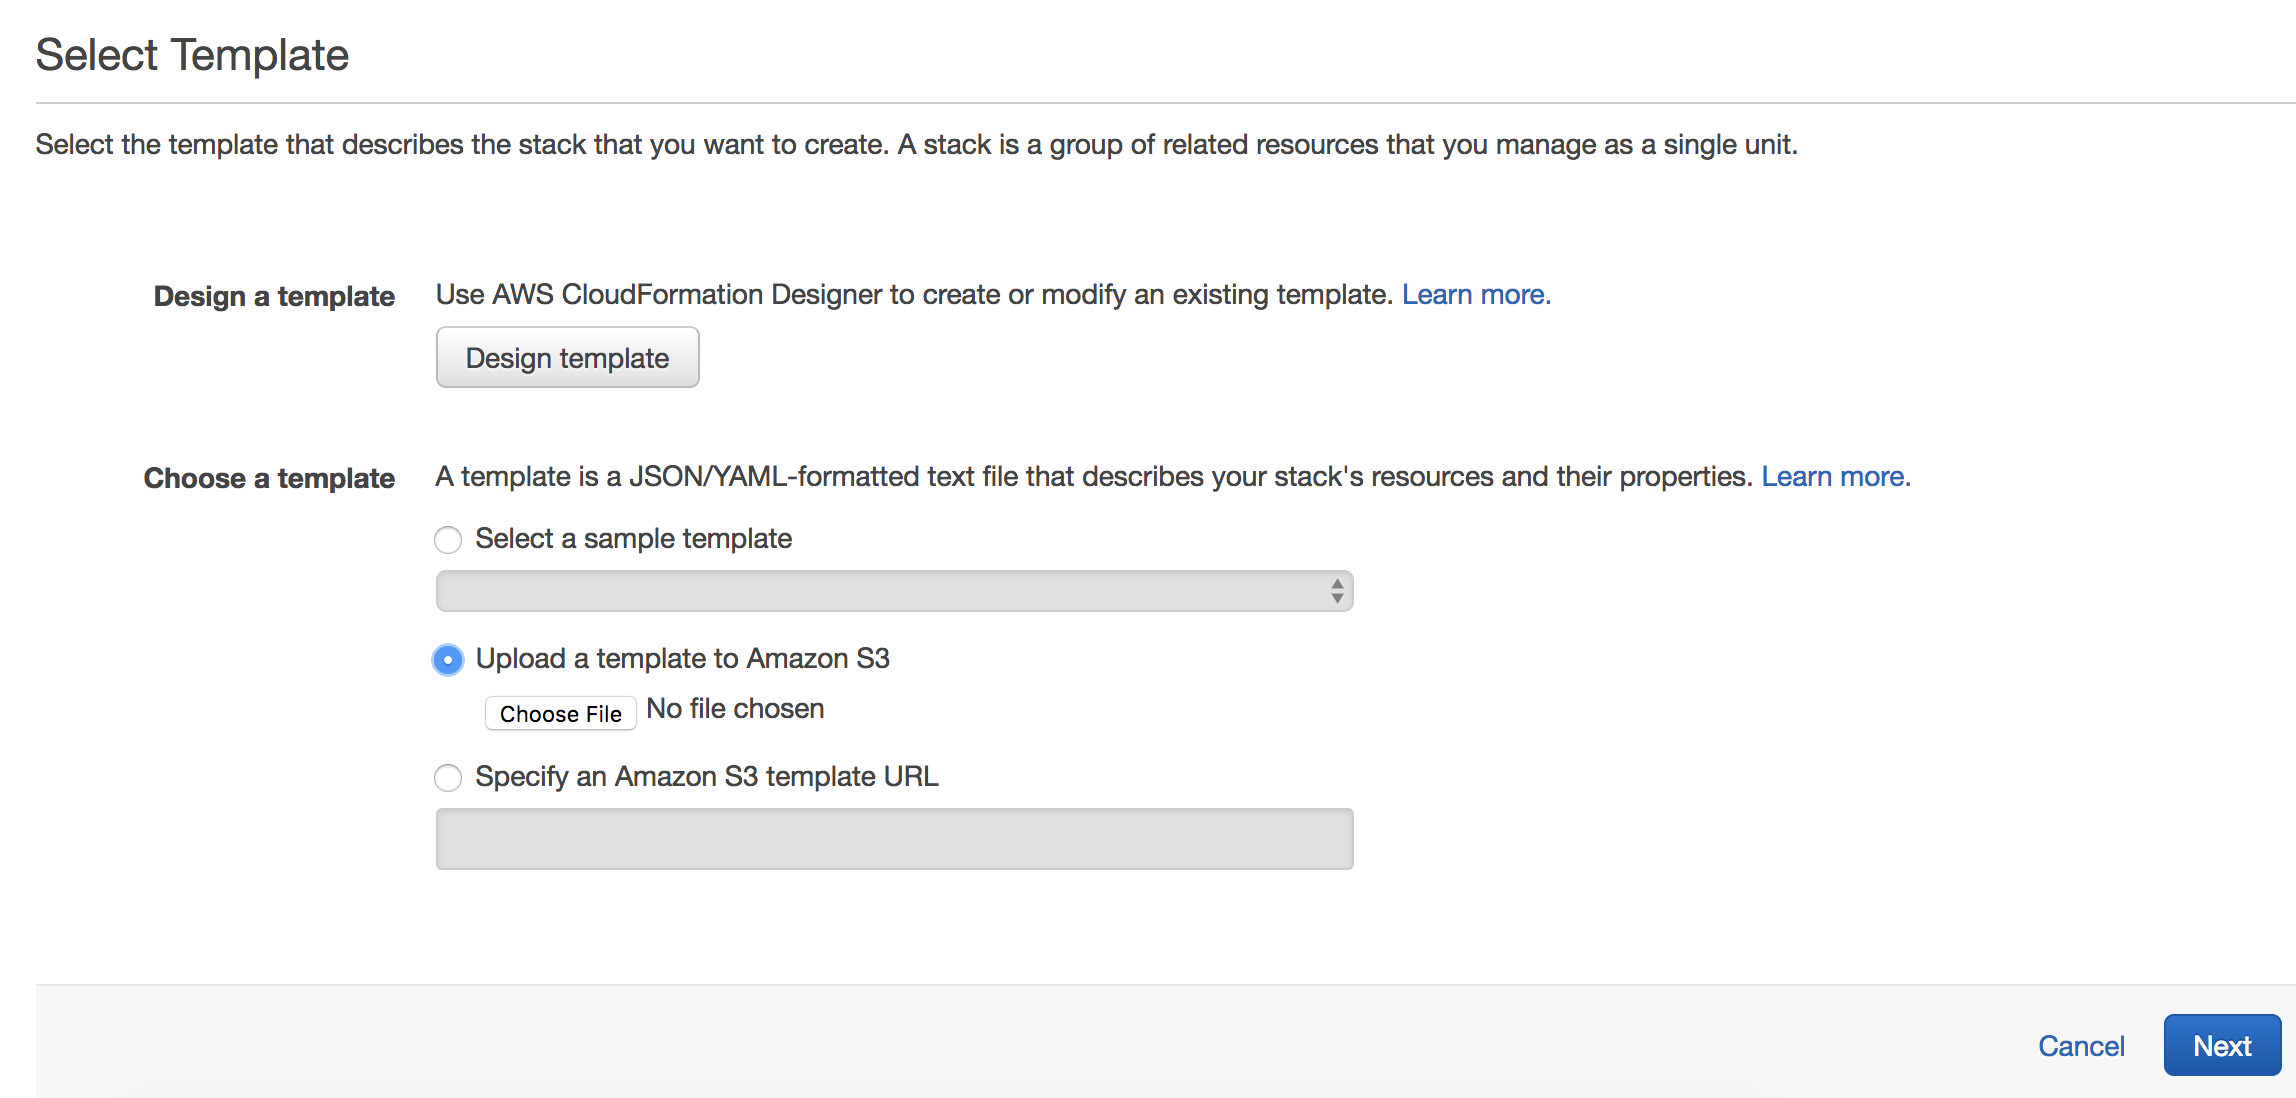
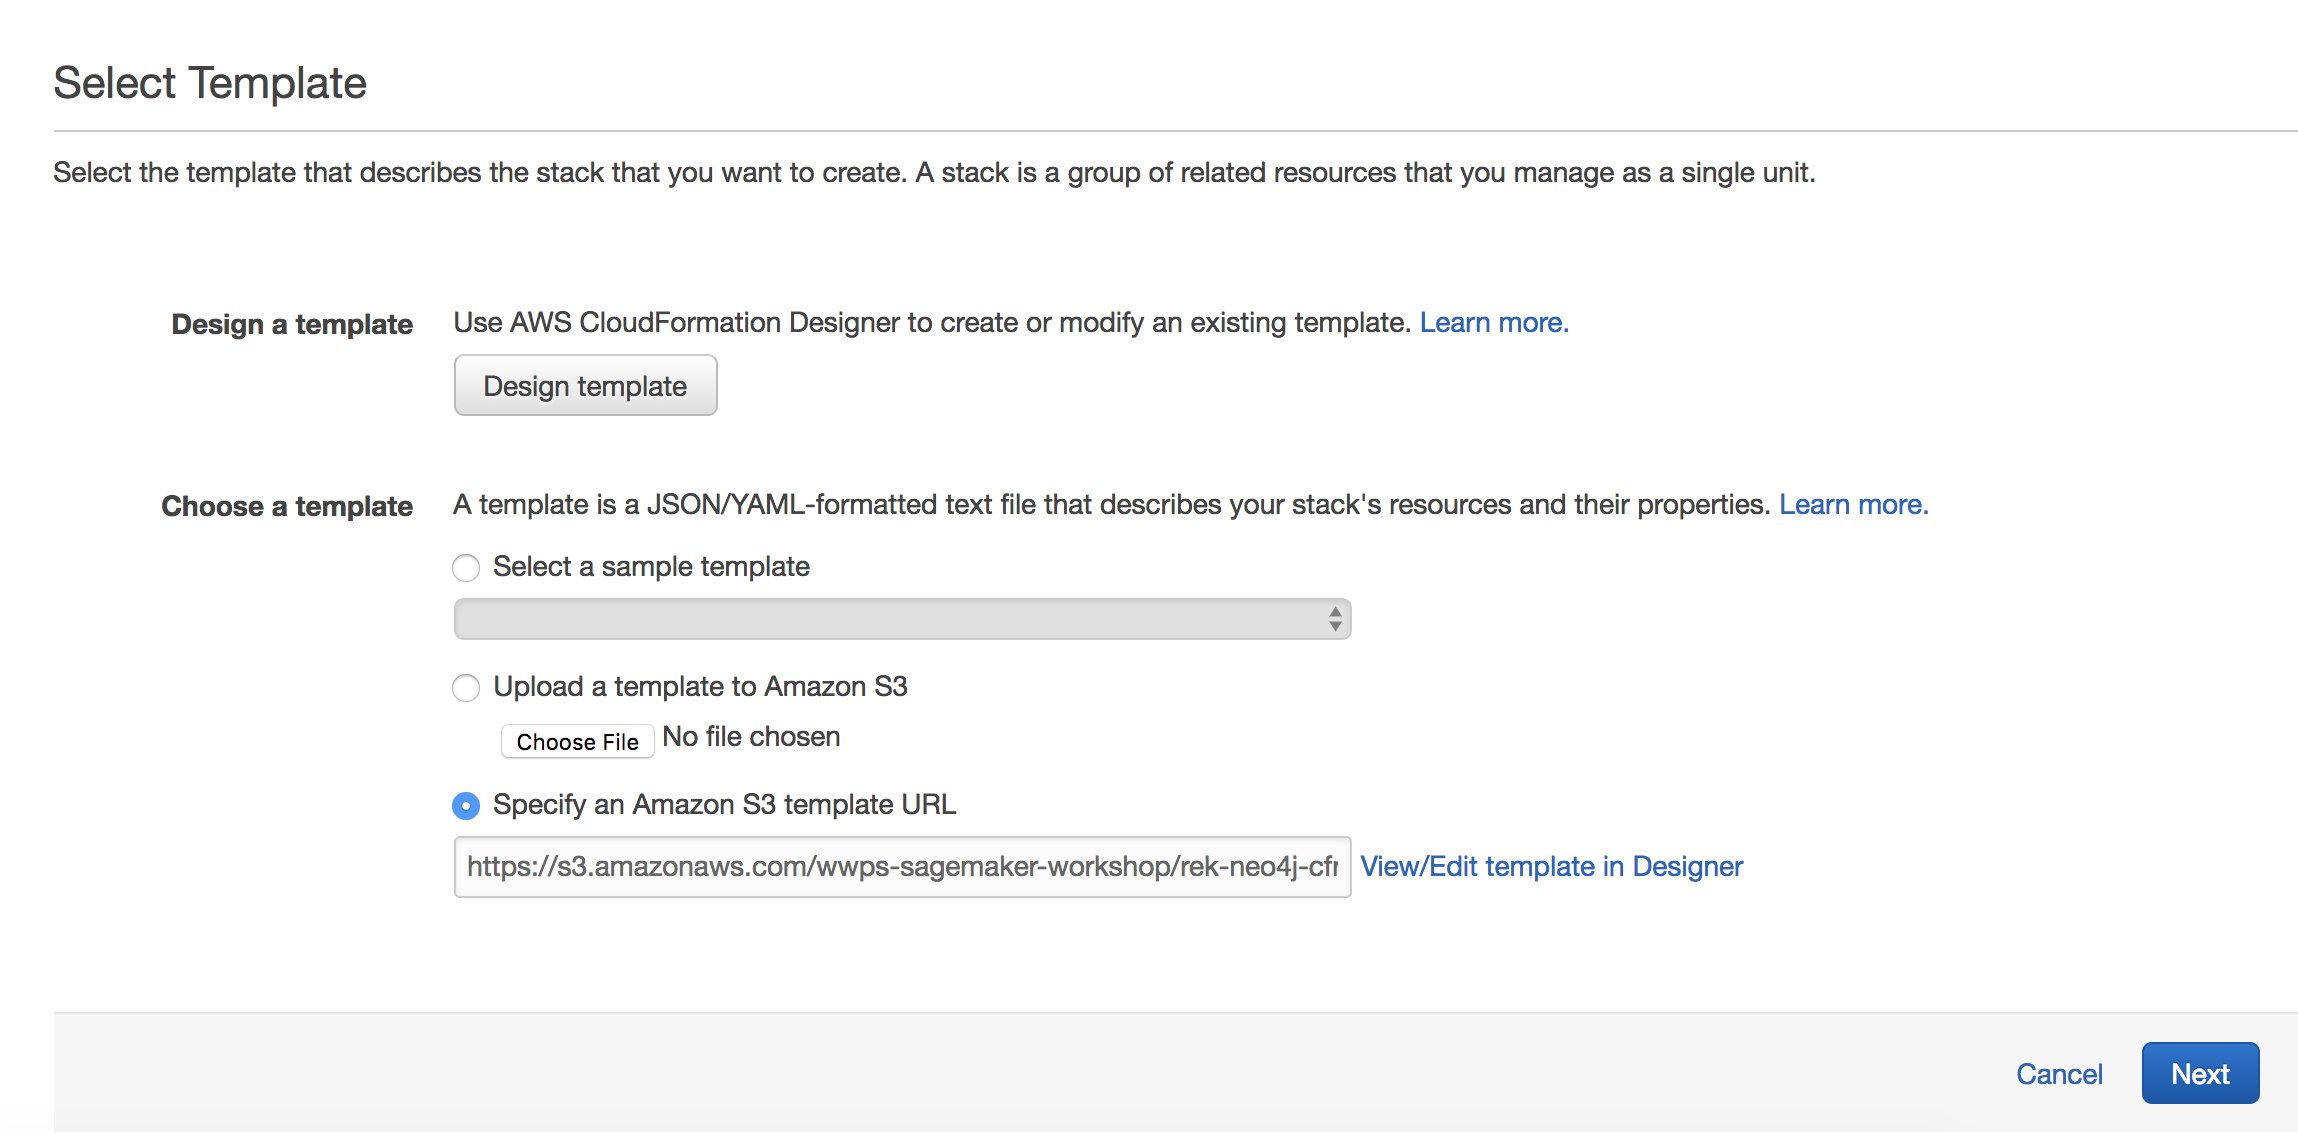
Updated ReadMe

diff --git a/README.md b/README.md
@@ -14,11 +14,15 @@ This lab highlights the use of AWS Rekognition's facial identification functiona
 # Launch the CloudFormation Template
 
 ## Download the Cloudformation File
-1. Right click the following link and click "Save Target As" https://raw.githubusercontent.com/kate-dubbs/social-networks-rekognition-neo4j/master/rek-neo4j-cfn.template
-2. Navigate to Amazon CloudFormation in the AWS Console
+1. Navigate to Amazon CloudFormation in the AWS Console
 3. Click Create Stack
 ![Create Stack](./images/step0.png)
-4. Select Upload a template to Amazon S3, then click Choose File and navigate to the template you saved in Step 1. Click Next.
+4. Select Specify an Amazon S3 template URL, then past the following URL:
+````
+https://s3.amazonaws.com/wwps-sagemaker-workshop/rek-neo4j-cfn.template
+
+````
+Click Next.
 ![Upload Template](./images/step1.png)
 5. Type in any value you want for Stack Name
 6. Under Parameters, leave everything default except the KeyName. Select the Key you created as part of the prerequisites. If you did not create a key-pair, you can find instructions for creating a Key-Pair here: https://docs.aws.amazon.com/AWSEC2/latest/UserGuide/ec2-key-pairs.html#having-ec2-create-your-key-pair
@@ -33,7 +37,10 @@ This lab highlights the use of AWS Rekognition's facial identification functiona
 ![Complete Stack](./images/step0.png)
 2. Click on Outputs to view the Public IP address of the EC2 instance you created, you will need this in the following steps.
 ![Template Outputs](./images/step4.png)
-3. To access Neo4j, paste http://[DNSPublicInstance]:7474 into your browser. So the url will look something like: http://ec2-54-91-36-181.compute-1.amazonaws.com:7474
+3. To access Neo4j, paste http://[DNSPublicInstance]:7474 into your browser. So the url will look something like: 
+````
+http://ec2-54-91-36-181.compute-1.amazonaws.com:7474
+````
 4. In Neo4j, you will need to configure a password. I recommend just using the word password for this lab, because that is the default password in the Jupyter Notebook. If you set your password to something else, make sure you remember it and update it in the Jupyter Notebook later in this lab. The default password is neo4j. So sign in with neo4j as both the username and password.
 ![Password Config](./images/step5.png)
 5. You can play around with the movie database in Neo4j by clicking on the star symbol in the menu on the left. Then click "Example Graphs" and select the Movie Graph radio button. This will open a window on the right that describes the Movie Graph data, click the right arrow to scroll to the query example. Clicking the query code will automatically run the example query and build an example graph.
